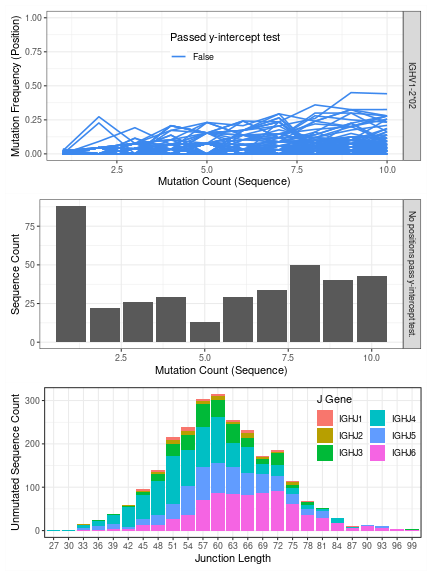
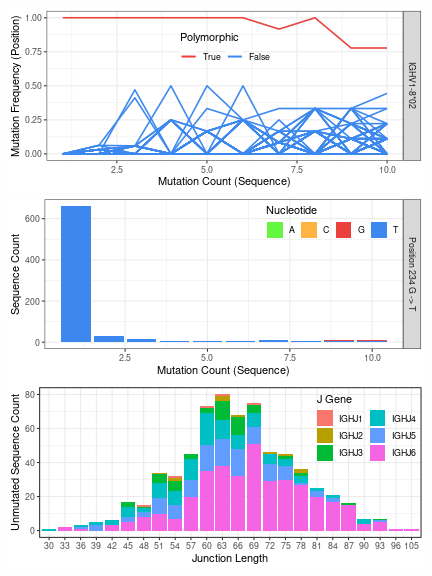
Fixed vignette. After change in order of rows, update select right novel row

diff --git a/docs/vignettes/Tigger-Vignette.md b/docs/vignettes/Tigger-Vignette.md
@@ -119,10 +119,12 @@ made by `findNovelAlleles` using the function `plotNovel`.
 
 ```r
 # Plot evidence of the first (and only) novel allele from the example data
-plotNovel(airrDb, novel[1, ])
+novel_row <- which(!is.na(novel$polymorphism_call))[1]
+plotNovel(airrDb, novel[novel_row, ])
 ```
 
 ![plot of chunk Tigger-Vignette-4](figure/Tigger-Vignette-4-1.png)
+
 
 ## Inferring genotypes
 
